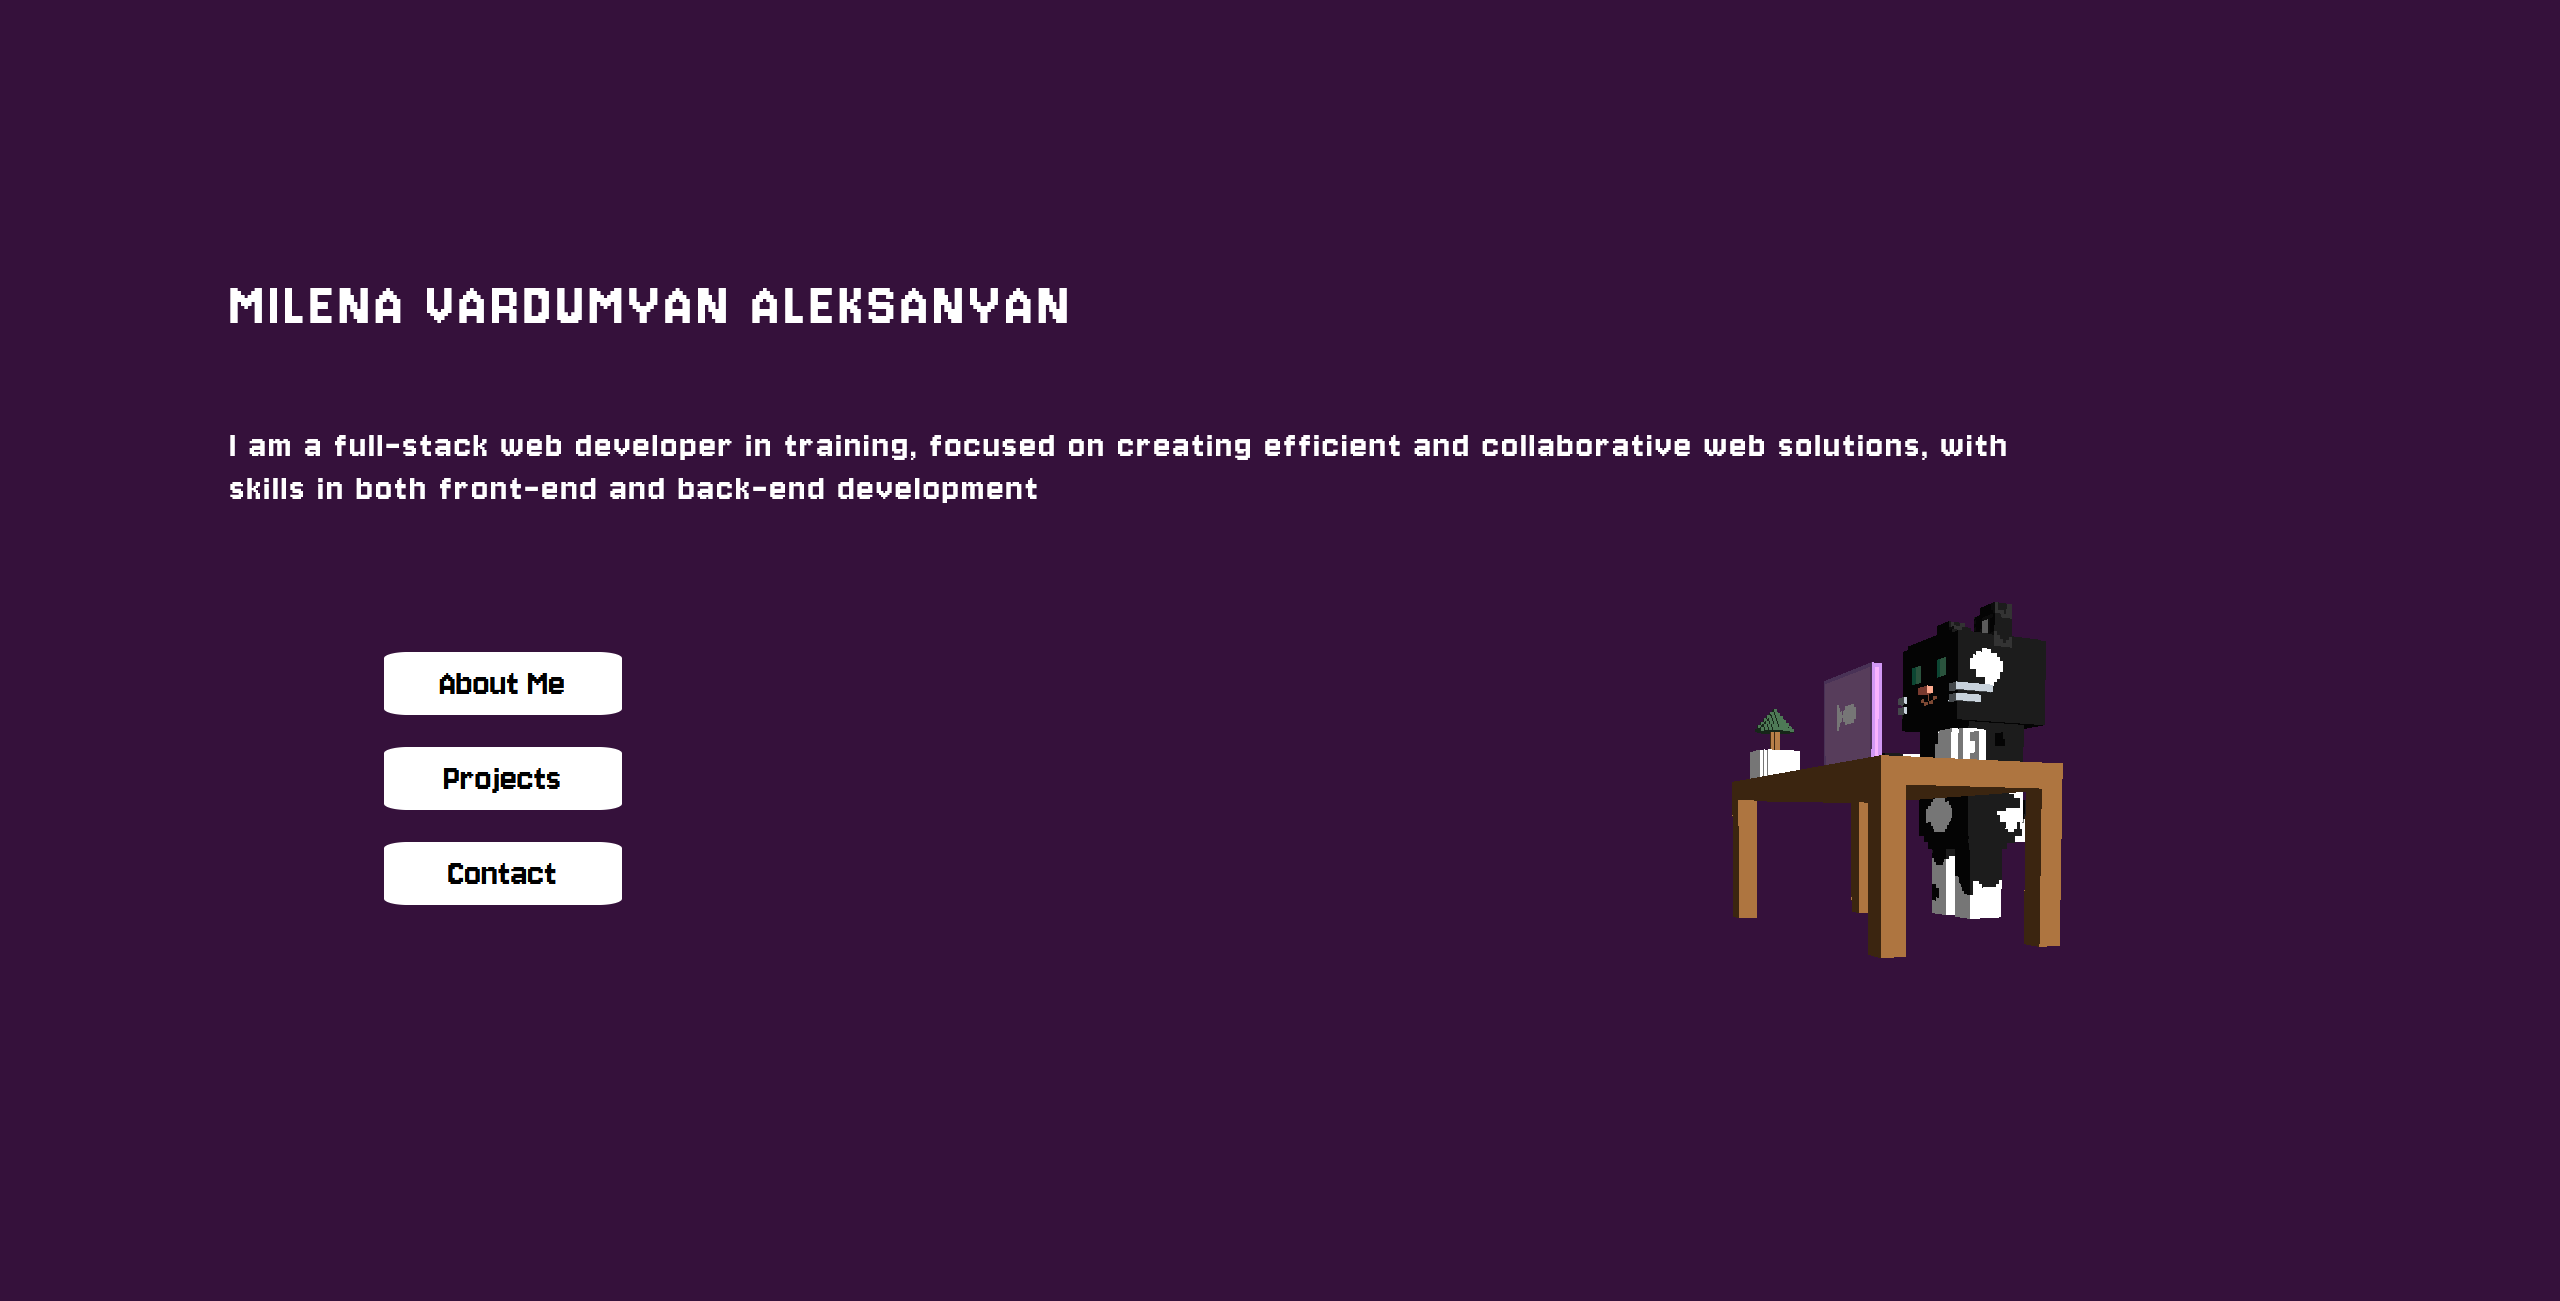
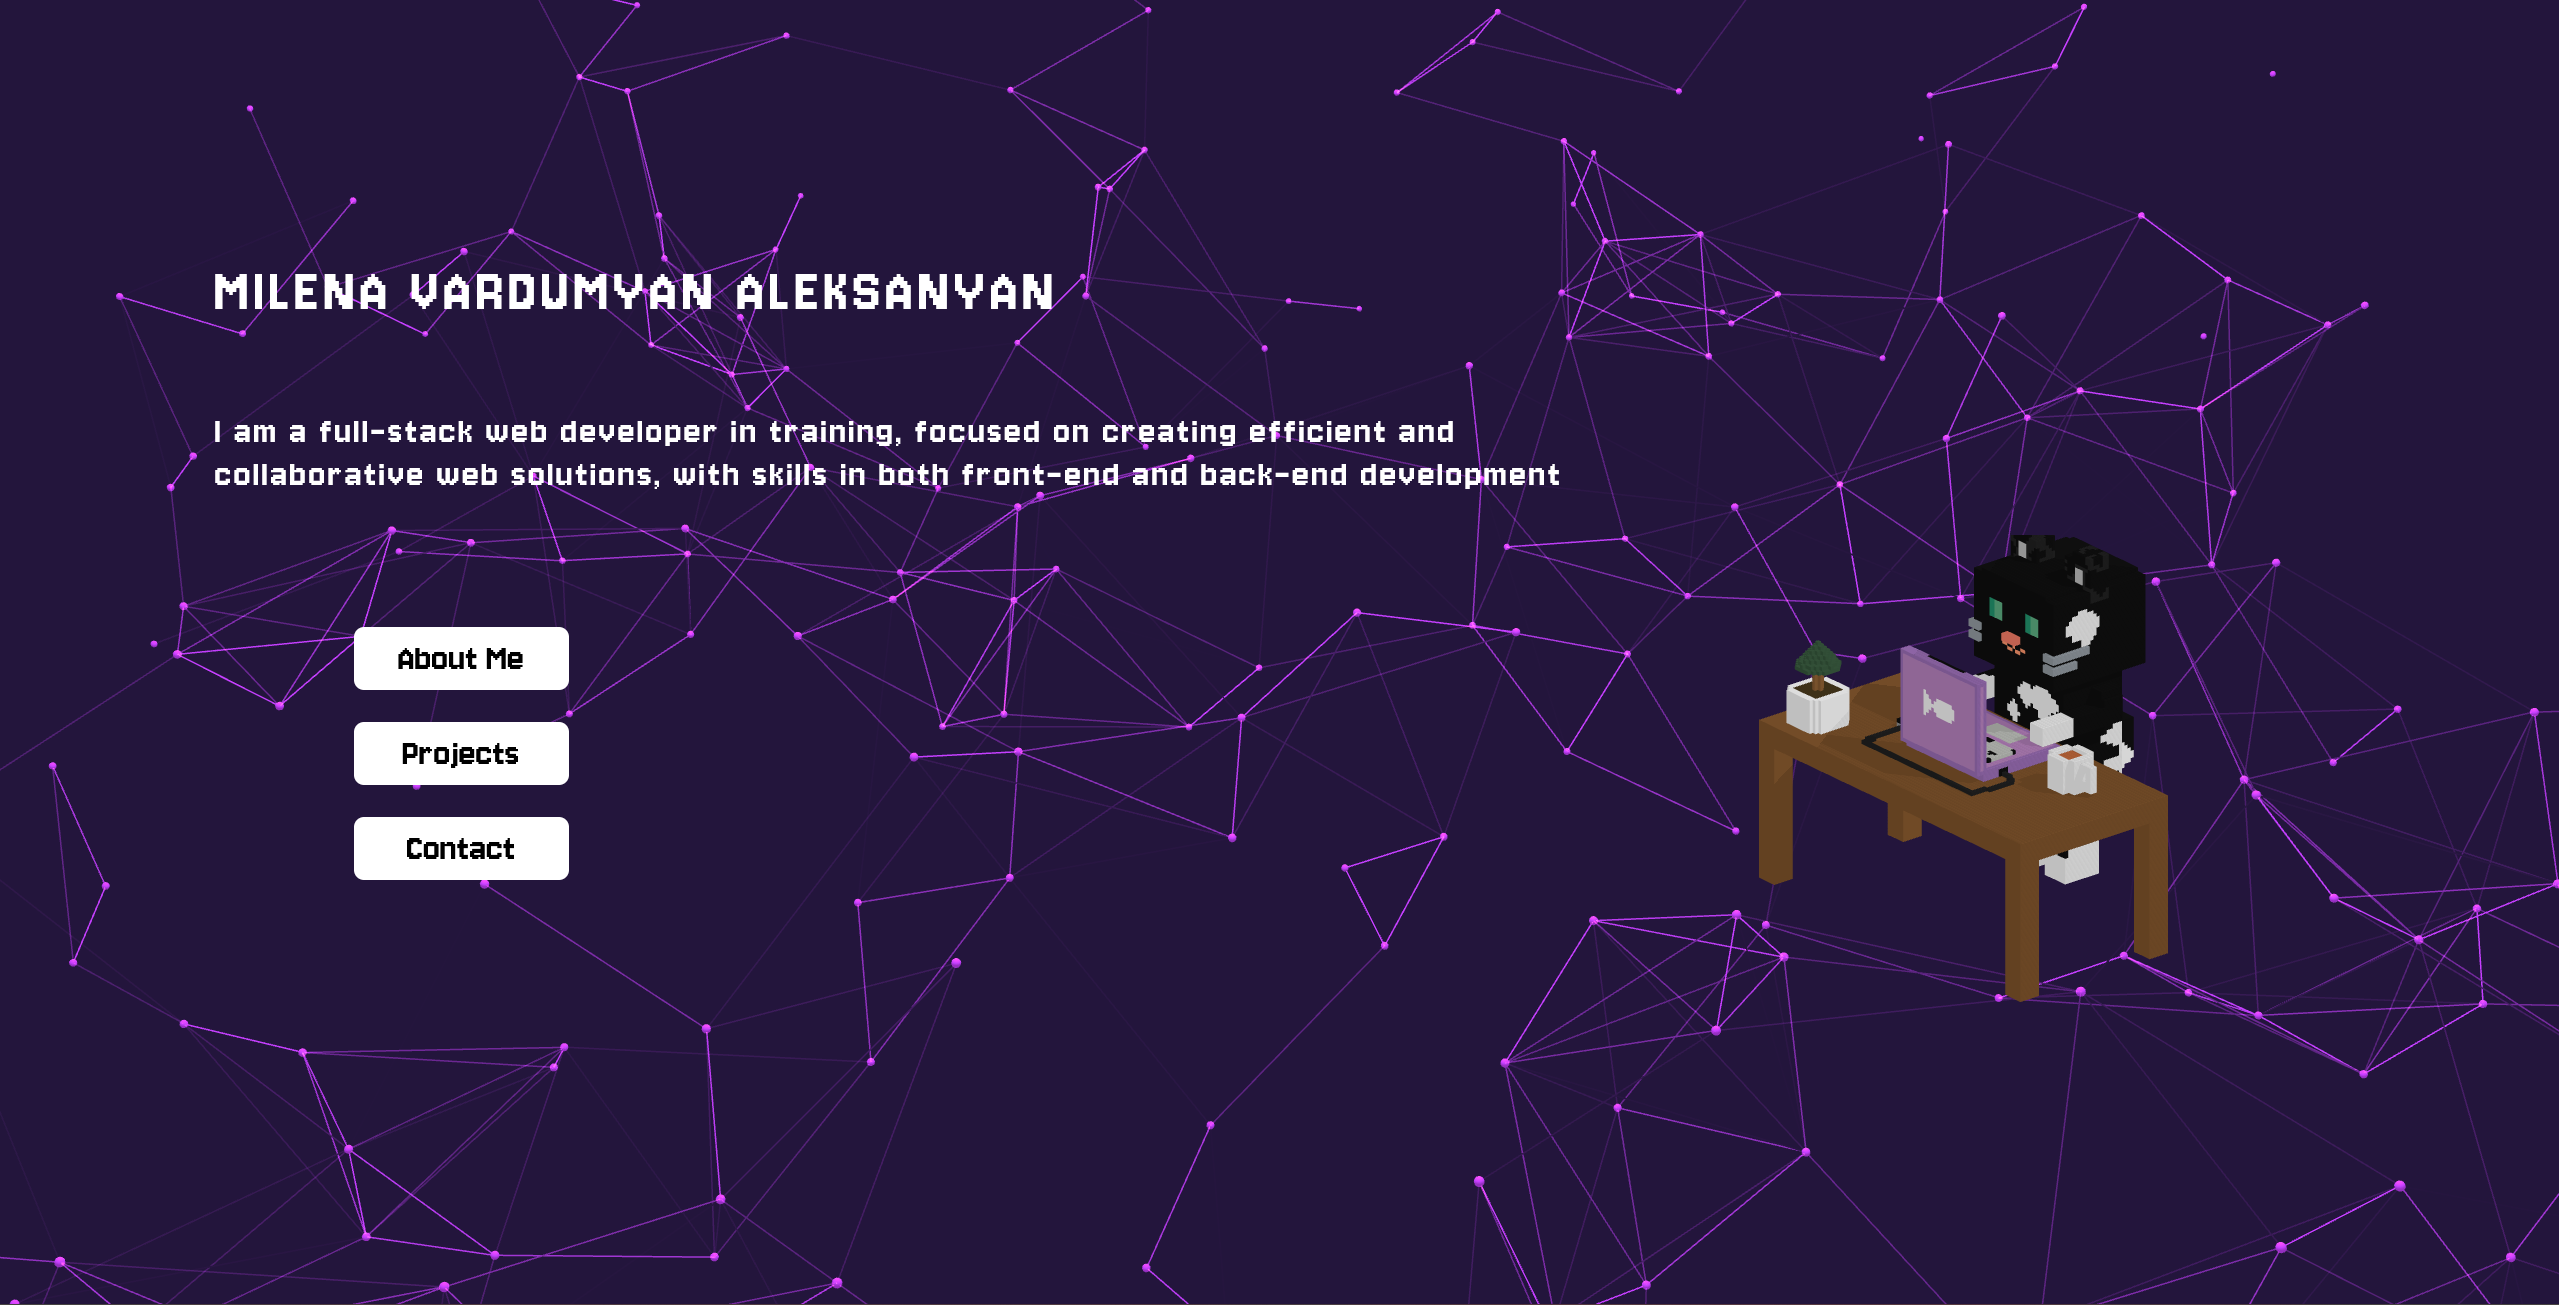
gato añadido, pero faltaria arreglar el fondo, no funciona bien en algunas páginas

diff --git a/src/app/components/Voxel-cat/voxel-cat.component.ts b/src/app/components/Voxel-cat/voxel-cat.component.ts
@@ -4,43 +4,47 @@ import {
   AfterViewInit,
   OnDestroy,
   ViewChild
-} from '@angular/core'
-import * as THREE from 'three'
-import { OrbitControls } from 'three/examples/jsm/controls/OrbitControls'
-import { GLTFLoader } from 'three/examples/jsm/loaders/GLTFLoader'
+} from '@angular/core';
+import * as THREE from 'three';
+import { OrbitControls } from 'three/examples/jsm/controls/OrbitControls';
+import { GLTFLoader } from 'three/examples/jsm/loaders/GLTFLoader';
+import { LoaderComponent } from '../Loader/loader.component';
+import { CommonModule } from '@angular/common';
 
 @Component({
+  imports: [CommonModule, LoaderComponent],
   selector: 'app-voxel-cat',
   template: `<div #container class="voxel-cat"></div>`,
   styleUrls: ['./voxel-cat.component.css']
 })
 export class VoxelCatComponent implements AfterViewInit, OnDestroy {
   loading = true;
-  @ViewChild('container', { static: true }) containerRef!: ElementRef
-  renderer!: THREE.WebGLRenderer
-  req: number | null = null
+  @ViewChild('container', { static: true }) containerRef!: ElementRef;
+  renderer!: THREE.WebGLRenderer;
+  req: number | null = null;
 
   ngAfterViewInit(): void {
-    const container = this.containerRef.nativeElement
-    const scW = container.clientWidth
-    const scH = container.clientHeight
+    const container = this.containerRef.nativeElement;
+    const scW = container.clientWidth;
+    const scH = container.clientHeight;
 
-    this.renderer = new THREE.WebGLRenderer({ antialias: true, alpha: true })
-    this.renderer.setPixelRatio(window.devicePixelRatio)
-    this.renderer.setSize(scW, scH)
-    // @ts-ignore
-    this.renderer.outputEncoding = THREE.sRGBEncoding
-    container.appendChild(this.renderer.domElement)
+    this.renderer = new THREE.WebGLRenderer({ antialias: true, alpha: true });
+    this.renderer.setPixelRatio(window.devicePixelRatio);
+    this.renderer.setSize(scW, scH);
+    this.renderer.outputColorSpace = THREE.SRGBColorSpace;
+    this.renderer.shadowMap.enabled = true;
+    this.renderer.shadowMap.type = THREE.PCFSoftShadowMap;
+    container.appendChild(this.renderer.domElement);
 
-    const scene = new THREE.Scene()
-    const target = new THREE.Vector3(-0.5, 1.2, 0)
+    const scene = new THREE.Scene();
+    const target = new THREE.Vector3(-0.5, 1.2, 0);
     const initialCameraPosition = new THREE.Vector3(
       20 * Math.sin(0.2 * Math.PI),
       10,
       20 * Math.cos(0.2 * Math.PI)
-    )
+    );
 
-    const scale = scH * 0.005 + 4.8
+    const scale = scH * 0.005 + 4.8;
     const camera = new THREE.OrthographicCamera(
       -scale,
       scale,
@@ -48,25 +52,49 @@ export class VoxelCatComponent implements AfterViewInit, OnDestroy {
       -scale,
       0.01,
       50000
-    )
-    camera.position.copy(initialCameraPosition)
-    camera.lookAt(target)
+    );
+    camera.position.copy(initialCameraPosition);
+    camera.lookAt(target);
 
-    const ambientLight = new THREE.AmbientLight(0xcccccc, Math.PI)
-    scene.add(ambientLight)
+    const ambientLight = new THREE.AmbientLight(0xcccccc, Math.PI);
+    scene.add(ambientLight);
 
-    const controls = new OrbitControls(camera, this.renderer.domElement)
-    controls.autoRotate = true
-    controls.target = target
+    const directionalLight = new THREE.DirectionalLight(0xffffff, 1);
+    directionalLight.position.set(5, 10, 7.5);
+    directionalLight.castShadow = true;
+    directionalLight.shadow.mapSize.width = 1024;
+    directionalLight.shadow.mapSize.height = 1024;
+    scene.add(directionalLight);
 
-    const loader = new GLTFLoader()
-    const urlCatGLTF = '/catGF.gltf'
+    const controls = new OrbitControls(camera, this.renderer.domElement);
+    controls.autoRotate = true;
+    controls.target = target;
+    controls.enableZoom = false;
+    controls.enableDamping = true;
+    controls.dampingFactor = 0.1;
+    controls.rotateSpeed = 0.5;
 
-    loader.load(urlCatGLTF, gltf => {
-      scene.add(gltf.scene)
-      this.loading = false
-      this.animate(scene, camera, controls, initialCameraPosition, target)
-    })
+    const loader = new GLTFLoader();
+    const urlCatGLTF = '/catGB.glb';
+    loader.load(
+      urlCatGLTF,
+      gltf => {
+        gltf.scene.traverse((child) => {
+          if ((child as THREE.Mesh).isMesh) {
+            child.castShadow = true;
+            child.receiveShadow = true;
+          }
+        });
+        scene.add(gltf.scene);
+        this.loading = false;
+        this.animate(scene, camera, controls, initialCameraPosition, target);
+        console.log('Modelo cargado:', gltf.scene);
+      },
+      undefined,
+      error => {
+        console.error('Error al cargar el modelo:', error);
+      }
+    );
   }
 
   animate(
@@ -76,32 +104,32 @@ export class VoxelCatComponent implements AfterViewInit, OnDestroy {
     initialCameraPosition: THREE.Vector3,
     target: THREE.Vector3
   ) {
-    let frame = 0
-    const easeOutCirc = (x: number) => Math.sqrt(1 - Math.pow(x - 1, 4))
+    let frame = 0;
+    const easeOutCirc = (x: number) => Math.sqrt(1 - Math.pow(x - 1, 4));
 
     const animateFrame = () => {
-      this.req = requestAnimationFrame(animateFrame)
-      frame = frame <= 100 ? frame + 1 : frame
+      this.req = requestAnimationFrame(animateFrame);
+      frame = frame <= 100 ? frame + 1 : frame;
 
       if (frame <= 100) {
-        const p = initialCameraPosition
-        const rotSpeed = -easeOutCirc(frame / 120) * Math.PI * 20
-        camera.position.y = 10
-        camera.position.x = p.x * Math.cos(rotSpeed) + p.z * Math.sin(rotSpeed)
-        camera.position.z = p.z * Math.cos(rotSpeed) - p.x * Math.sin(rotSpeed)
-        camera.lookAt(target)
+        const p = initialCameraPosition;
+        const rotSpeed = -easeOutCirc(frame / 120) * Math.PI * 20;
+        camera.position.y = 10;
+        camera.position.x = p.x * Math.cos(rotSpeed) + p.z * Math.sin(rotSpeed);
+        camera.position.z = p.z * Math.cos(rotSpeed) - p.x * Math.sin(rotSpeed);
+        camera.lookAt(target);
       } else {
-        controls.update()
+        controls.update();
       }
 
-      this.renderer.render(scene, camera)
-    }
+      this.renderer.render(scene, camera);
+    };
 
-    animateFrame()
+    animateFrame();
   }
 
   ngOnDestroy(): void {
-    if (this.req) cancelAnimationFrame(this.req)
-    this.renderer.dispose()
+    if (this.req) cancelAnimationFrame(this.req);
+    this.renderer.dispose();
   }
 }

diff --git a/src/app/components/home/home.css b/src/app/components/home/home.css
@@ -14,6 +14,7 @@
     .body {
         width: 90%;
         height: 50%;
+        position: fixed;
     }
     /*TOP TEXT*/
     .initial-text{
@@ -38,7 +39,7 @@
         color: white;
         transition: all 0.2s ease;
         font-size: 3vh;
-        width: 70%;
+        width: 75%;
         letter-spacing: 6%;
         font-weight: lighter;
     }
@@ -100,21 +101,10 @@
         text-align: center;
         cursor: pointer;
     }
-    
-/* home.css */
-.spinner {
-  position: absolute;
-  top: 50%;
-  left: 50%;
-  width: 48px;
-  height: 48px;
-  margin-left: -24px;
-  margin-top: -24px;
-  border: 6px solid #ccc;
-  border-top-color: #333;
-  border-radius: 50%;
-  animation: spin 0.8s linear infinite;
-}
+    .app-voxel-cat {
+        justify-content: center;
+        display: flex;
+    }
 
 @keyframes spin {
   to {
@@ -125,11 +115,7 @@
 
 @media screen and (max-width: 1000px) {
     /*TOP TEXT*/
-    .initial-text {
-        margin: 2%;
-    }
     .description {
-        justify-content: center;
         display: contents;
         font-size: 40px;
     }
@@ -141,21 +127,7 @@
         width: 500%;
         margin-left: 25%;
     }
-    .menu-about-me {
-        box-shadow: 0 0 30px #D19ADA;
-    }
-    .menu-projects {
-        box-shadow: 0 0 30px #D19ADA;
-    }
-    .menu-contact {
-        box-shadow: 0 0 30px #D19ADA;
-    }
-    
-    /*3D MODEL*/
-    .canvas-container {
-        display: block;
-        margin: 0 auto;
-        max-width: 100%;
-        height: auto;
-    }
+    .menu-about-me {box-shadow: 0 0 30px #D19ADA;}
+    .menu-projects {box-shadow: 0 0 30px #D19ADA;}
+    .menu-contact {box-shadow: 0 0 30px #D19ADA;}
 }

diff --git a/src/app/components/Voxel-cat/voxel-cat.component.css b/src/app/components/Voxel-cat/voxel-cat.component.css
@@ -1,6 +1,23 @@
-.voxel-cat {
-  margin: auto;
-  width: 640px;
-  height: 640px;
-  position: relative;
+@media screen and (min-width: 900px) {
+  .voxel-cat {
+    margin-top: -15%;
+    margin-left: 70%;
+    width: 640px;
+    height: 640px;
+    display: block;
+  }
+  .spinner {
+    transform: translate(-100%, -100%);
+    width: var(--spinner-size, 48px);
+    height: var(--spinner-size, 48px);
+  }
+}
+@media screen and (max-width: 1000px) {
+  .voxel-cat {
+    width: 640px;
+    height: 640px;
+    display: block;
+    margin-left: 10%;
+    margin-top:20%;
+  }
 }

diff --git a/src/app/components/Loader/loader.component.ts b/src/app/components/Loader/loader.component.ts
@@ -1,6 +1,9 @@
+import { CommonModule } from '@angular/common';
 import { Component } from '@angular/core'
-
+import { MatProgressSpinnerModule } from '@angular/material/progress-spinner';
 @Component({
+  standalone: true,
+  imports: [CommonModule, MatProgressSpinnerModule],
   selector: 'app-loader',
   templateUrl: './loader.component.html',
   styleUrls: ['./loader.component.css']

diff --git a/src/app/components/about-me/about-me.css b/src/app/components/about-me/about-me.css
@@ -66,13 +66,9 @@
     /*CVs*/
     .cv button{
         box-shadow: 0 0 20px #D19ADA;
-        margin-top: 10%;
         width: auto;
         border-radius: 10px;
-        padding: 10px;
+        padding: 15px;
     }
-    .cv {
-        display: grid;
-        justify-content: space-evenly;    
-    }
+   
 }

diff --git a/src/app/components/Voxel-cat/voxel-cat.component.html b/src/app/components/Voxel-cat/voxel-cat.component.html
@@ -1,3 +1,5 @@
-<div #container class="voxel-cat">
-  <app-loader *ngIf="loading"></app-loader>
+<div *ngIf="loading">
+  <app-loader></app-loader>
 </div>
+
+<div #container class="voxel-cat" *ngIf="!loading"></div>

diff --git a/src/index.html b/src/index.html
@@ -19,8 +19,6 @@
     gyroControls: false,
     minHeight: window.innerHeight,
     minWidth: window.innerWidth,
-    scale: 1.00,
-    scaleMobile: 1.00,
     color: 0xc53fff
     })
 </script>

diff --git a/src/styles.css b/src/styles.css
@@ -30,10 +30,10 @@
 @media screen and (max-width: 1000px) {
   body {
     font-size: 18px;
-    padding: 2rem;
   }
   .arrow img {
     width: 130px;
     transition: all 0.2s ease;
   }
+
 }

diff --git a/src/app/components/Loader/loader.component.css b/src/app/components/Loader/loader.component.css
@@ -1,3 +1,4 @@
+@import '@angular/material/prebuilt-themes/indigo-pink.css';
 .loader-container {
   position: absolute;
   top: 50%;
